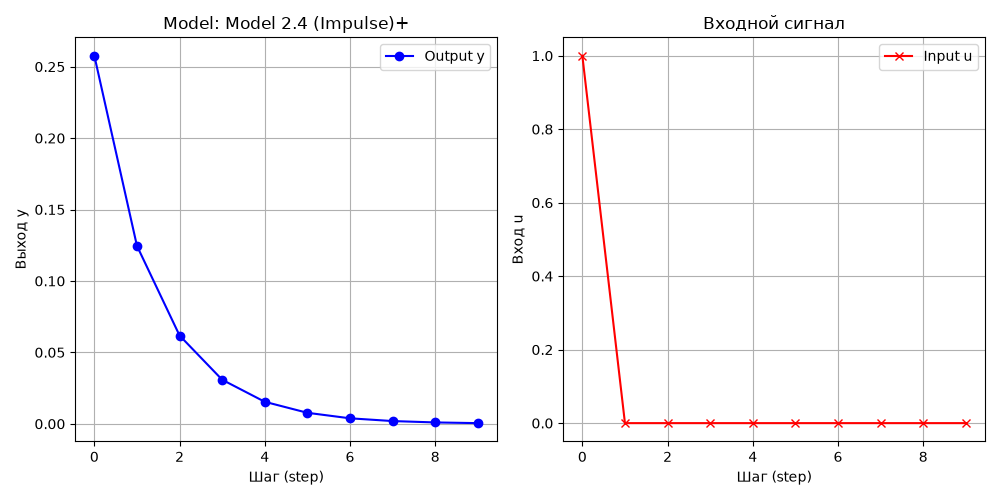
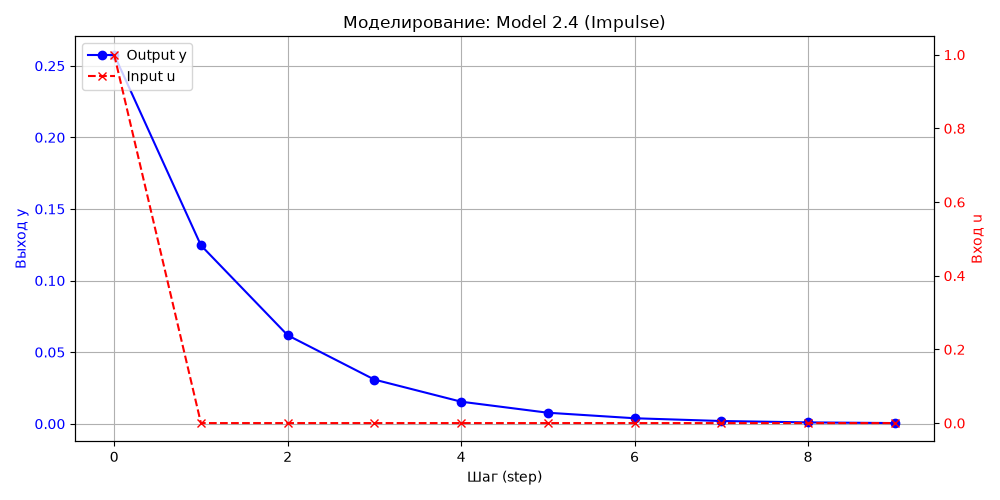
new

diff --git a/trunk/ii02902/task_01/doc/src/main.cpp b/trunk/ii02902/task_01/doc/src/main.cpp
@@ -1,0 +1,140 @@
+#include <iostream>
+#include <fstream>
+#include <iomanip>
+#include <string>
+#include <sstream>
+#include <memory>
+#include "InputSignal.h"
+#include "Model.h"
+#include "Model1_2.h"
+#include "Model2_4.h"
+#include "Model3_6.h"
+
+int getSafeSteps(int raw_steps) {
+    constexpr int min_steps = 1;
+    constexpr int max_steps = 1000;
+    constexpr int default_steps = 30;
+    return (raw_steps < min_steps || raw_steps > max_steps) ? default_steps : raw_steps;
+}
+
+template <typename T>
+T promptValue(const std::string& prompt, T default_value, T min_v = {}, T max_v = {}, bool check_range = false) {
+    std::cout << prompt << " (default " << default_value << "): ";
+    if (std::string input; std::getline(std::cin, input) && !input.empty()) {
+        std::stringstream ss(input);
+        T val;
+        if (ss >> val) {
+            if (!check_range || (val >= min_v && val <= max_v)) {
+                return val;
+            }
+        }
+    }
+    return default_value;
+}
+
+int getModelChoice() {
+    std::cout << "Select model:\n"
+              << "  1. Model 1.2 (System with Pure Control Delay k)\n"
+              << "  2. Model 2.4 (Logarithmic Multi-Variable Interaction)\n"
+              << "  3. Model 3.6 (Cubic Growth and Control)\n";
+    return promptValue<int>("Enter choice (1-3)", 1, 1, 3, true);
+}
+
+SignalType getSignalChoice() {
+    std::cout << "\nSelect input signal:\n"
+              << "  1. Step\n"
+              << "  2. Impulse\n"
+              << "  3. Harmonic\n";
+    const int val = promptValue<int>("Enter choice (1-3)", 1, 1, 3, true);
+    if (val == 2) return SignalType::IMPULSE;
+    if (val == 3) return SignalType::HARMONIC;
+    return SignalType::STEP;
+}
+
+int main(int argc, char* argv[]) {
+    int parsed_steps = 30;
+
+    if (argc > 1) {
+        try {
+            parsed_steps = getSafeSteps(std::stoi(argv[1]));
+        } catch (...) {
+            parsed_steps = 30;
+        }
+    } else {
+        parsed_steps = getSafeSteps(promptValue<int>("Enter simulation steps", 30));
+    }
+
+    const int steps = parsed_steps;
+    const int model_choice = getModelChoice();
+    const SignalType selected_signal = getSignalChoice();
+
+    std::unique_ptr<Model> active_model;
+    std::string model_name;
+
+    std::cout << "\n--- Parameters configuration ---\n";
+
+    switch (model_choice) {
+        case 2: {
+            const double a = promptValue("Enter parameter a", 0.5);
+            const double b = promptValue("Enter parameter b", 0.3);
+            const double y0 = promptValue("Enter initial y0", 0.1);
+            active_model = std::make_unique<Model2_4>(a, b, y0);
+            model_name = "Model 2.4";
+            break;
+        }
+        case 3: {
+            const double a = promptValue("Enter parameter a", 0.1);
+            const double b = promptValue("Enter parameter b", 0.8);
+            const double dt = promptValue("Enter time step dt", 0.1);
+            const double y0 = promptValue("Enter initial y0", 0.0);
+            active_model = std::make_unique<Model3_6>(a, b, dt, y0);
+            model_name = "Model 3.6";
+            break;
+        }
+        case 1:
+        default: {
+            const double a = promptValue("Enter parameter a", 0.7);
+            const double b = promptValue("Enter parameter b", 0.3);
+            const int k = promptValue<int>("Enter delay k", 2);
+            const double y0 = promptValue("Enter initial y0", 0.0);
+            active_model = std::make_unique<Model1_2>(a, b, k, y0);
+            model_name = "Model 1.2";
+            break;
+        }
+    }
+
+    const std::string sig_name = InputSignal::getSignalName(selected_signal);
+
+    std::ofstream out("results.csv");
+    if (!out.is_open()) {
+        std::cerr << "Failed to open results.csv\n";
+        return 1;
+    }
+
+    out << "step,signal,u,y,model_name\n";
+
+    std::cout << "\n============================================\n";
+    std::cout << "Simulation started for selected configuration\n";
+    std::cout << "============================================\n";
+
+    std::cout << std::setw(6) << "Step"
+              << std::setw(12) << "Input u"
+              << std::setw(16) << "Output y" << "\n";
+
+    for (int t = 0; t < steps; ++t) {
+        const double u = InputSignal::getSignal(selected_signal, t);
+        const double y = active_model->step(u);
+
+        std::cout << std::setw(6) << t
+                  << std::fixed << std::setprecision(4)
+                  << std::setw(12) << u
+                  << std::setw(16) << y << "\n";
+
+        out << t << "," << sig_name << "," << u << ","
+            << y << "," << model_name << "\n";
+    }
+
+    out.close();
+    std::cout << "\nResults saved to results.csv\n";
+    return 0;
+}

diff --git a/trunk/ii02902/task_01/src/plot.py b/trunk/ii02902/task_01/src/plot.py
@@ -1,4 +1,3 @@
-
 import sys
 sys.path.append(r"D:\lib\site-packages")
 import os
@@ -16,30 +15,36 @@ df = pd.read_csv(csv_path)
 
 plt.figure(figsize=(10, 5))
 
-# График выходного сигнала y от времени (step)
-plt.subplot(1, 2, 1)
-plt.plot(df['step'], df['y'], marker='o', color='b', label='Output y')
-plt.title(f"Model: {df['model_name'].iloc[0]} ({df['signal'].iloc[0]})+")
-plt.xlabel("Шаг (step)")
-plt.ylabel("Выход y")
-plt.grid(True)
-plt.legend()
+# Создаем основную ось для выхода y
+fig, ax1 = plt.subplots(figsize=(10, 5))
 
-# График входного сигнала u от времени
-plt.subplot(1, 2, 2)
-plt.plot(df['step'], df['u'], marker='x', color='r', label='Input u')
-plt.title("Входной сигнал")
-plt.xlabel("Шаг (step)")
-plt.ylabel("Вход u")
-plt.grid(True)
-plt.legend()
+model_title = df['model_name'].iloc[0] if 'model_name' in df.columns else "Model"
+signal_title = df['signal'].iloc[0] if 'signal' in df.columns else "Signal"
+
+ax1.set_title(f"Моделирование: {model_title} ({signal_title})")
+ax1.set_xlabel("Шаг (step)")
+ax1.set_ylabel("Выход y", color='b')
+line1 = ax1.plot(df['step'], df['y'], marker='o', color='b', label='Output y')
+ax1.tick_params(axis='y', labelcolor='b')
+ax1.grid(True)
+
+# Создаем вторую ось (twinx) для входного сигнала u, чтобы они не перекрывали друг друга по масштабу
+ax2 = ax1.twinx()
+ax2.set_ylabel("Вход u", color='r')
+line2 = ax2.plot(df['step'], df['u'], marker='x', color='r', linestyle='--', label='Input u')
+ax2.tick_params(axis='y', labelcolor='r')
+
+# Объединяем легенды с обеих осей в одно окошко
+lines = line1 + line2
+labels = [l.get_label() for l in lines]
+ax1.legend(lines, labels, loc='upper left')
 
 plt.tight_layout()
 
-# Сохраняем графики в папку doc (если она есть) и в корень проекта для отчёта
+# Сохраняем графики в папку doc и в корень проекта для отчёта (используем имя plot_task01.png, как в README)
 os.makedirs("doc", exist_ok=True)
 plt.savefig("doc/plot.png")
 plt.savefig("plot_task01.png")
 
 # Показываем окно с графиком
-plt.show()
+plt.show()  

diff --git a/trunk/ii02902/task_01/doc/src/Model1_2.cpp b/trunk/ii02902/task_01/doc/src/Model1_2.cpp
@@ -1,0 +1,28 @@
+#include "Model1_2.h"
+
+Model1_2::Model1_2(double a_val, double b_val, int k_val, double initial_y)
+    : Model(initial_y), a(a_val), b(b_val), delay_k(k_val < 0 ? 0 : k_val) {
+    u_history.resize(delay_k + 1, 0.0);
+}
+
+double Model1_2::step(double u) {
+    // Сдвигаем историю входов
+    if (!u_history.empty()) {
+        for (size_t i = u_history.size() - 1; i > 0; --i) {
+            u_history[i] = u_history[i - 1];
+        }
+        u_history[0] = u;
+    }
+    
+    // Получаем вход с учетом задержки k
+    double delayed_u = (u_history.size() > static_cast<size_t>(delay_k)) ? u_history[delay_k] : u;
+    
+    const double next_y = a * getY() + b * delayed_u;
+    setY(next_y);
+    return next_y;
+}
+
+void Model1_2::reset(double initial_y) {
+    Model::reset(initial_y);
+    std::fill(u_history.begin(), u_history.end(), 0.0);
+}

diff --git a/trunk/ii02902/task_01/doc/src/Model3_6.cpp b/trunk/ii02902/task_01/doc/src/Model3_6.cpp
@@ -1,0 +1,12 @@
+#include "Model3_6.h"
+
+Model3_6::Model3_6(double a_val, double b_val, double dt_val, double initial_y)
+    : Model(initial_y), a(a_val), b(b_val), dt(dt_val) {}
+
+double Model3_6::step(double u) {
+    const double current_y = getY();
+    const double dy = a * (current_y * current_y * current_y) + b * u;
+    const double next_y = current_y + dy * dt;
+    setY(next_y);
+    return next_y;
+}

diff --git a/trunk/ii02902/task_01/doc/src/Model1_2.h b/trunk/ii02902/task_01/doc/src/Model1_2.h
@@ -1,0 +1,16 @@
+#pragma once
+#include "Model.h"
+#include <vector>
+
+class Model1_2 : public Model {
+private:
+    double a;
+    double b;
+    int delay_k;
+    std::vector<double> u_history;
+
+public:
+    explicit Model1_2(double a_val, double b_val, int k_val, double initial_y = 0.0);
+    double step(double u) override;
+    void reset(double initial_y = 0.0) override;
+};

diff --git a/trunk/ii02902/task_01/doc/src/Model2_4.cpp b/trunk/ii02902/task_01/doc/src/Model2_4.cpp
@@ -1,0 +1,12 @@
+#include "Model2_4.h"
+#include <cmath>
+
+Model2_4::Model2_4(double a_val, double b_val, double initial_y)
+    : Model(initial_y), a(a_val), b(b_val) {}
+
+double Model2_4::step(double u) {
+    const double current_y = getY();
+    const double next_y = a * current_y * std::cos(current_y) + b * std::log(1.0 + std::abs(u));
+    setY(next_y);
+    return next_y;
+}

diff --git a/trunk/ii02902/task_01/doc/src/Model3_6.h b/trunk/ii02902/task_01/doc/src/Model3_6.h
@@ -1,0 +1,13 @@
+#pragma once
+#include "Model.h"
+
+class Model3_6 : public Model {
+private:
+    double a;
+    double b;
+    double dt;
+
+public:
+    explicit Model3_6(double a_val, double b_val, double dt_val = 0.1, double initial_y = 0.0);
+    double step(double u) override;
+};

diff --git a/trunk/ii02902/task_01/doc/src/Model2_4.h b/trunk/ii02902/task_01/doc/src/Model2_4.h
@@ -1,0 +1,12 @@
+#pragma once
+#include "Model.h"
+
+class Model2_4 : public Model {
+private:
+    double a;
+    double b;
+
+public:
+    explicit Model2_4(double a_val, double b_val, double initial_y = 0.0);
+    double step(double u) override;
+};
